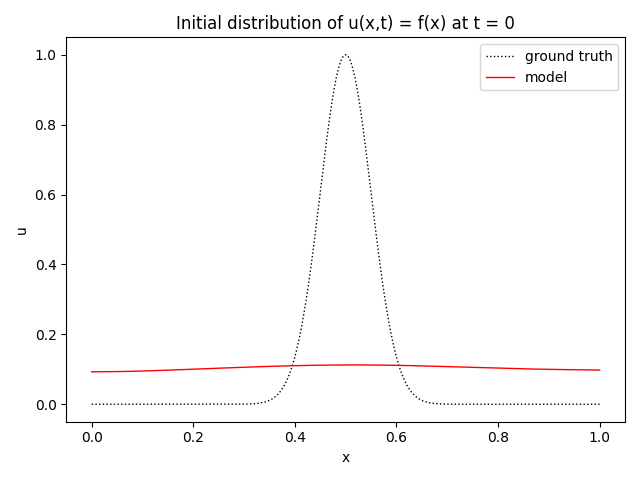
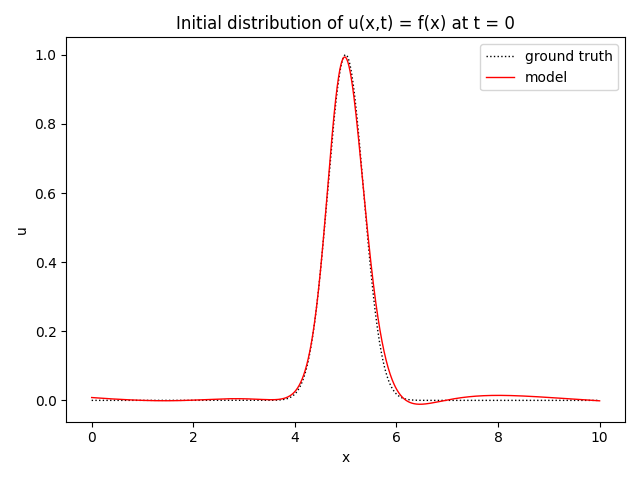
Created files

diff --git a/pinn/model.py b/pinn/model.py
@@ -26,12 +26,14 @@ class PINN:
             lr: float,
             batch_size: int,
             log_dir: str,
-            **kwargs
     ):
 
         self.c = c
         self.units = units
         self.batch_size = batch_size
+
+        self.max_x = 10.
+        self.max_t = 4.
 
         # create neural network to approximate u(x,t)
 
@@ -84,10 +86,10 @@ class PINN:
 
     @tf.function
     def pde(self):
-        """ u_tt(x,t) - c^2 * u_xx(x,t) = 0,    0 < x < 1,     0 < t < 1 """
+        """ u_tt(x,t) - c^2 * u_xx(x,t) = 0,    0 < x < X,     0 < t < T """
 
-        x = tf.random.uniform((self.batch_size,), 0., 1.)
-        t = tf.random.uniform((self.batch_size,), 0., 1.)
+        x = tf.random.uniform((self.batch_size,), 0., self.max_x)
+        t = tf.random.uniform((self.batch_size,), 0., self.max_t)
         with tf.GradientTape(persistent=True) as g:
             g.watch(x)
             g.watch(t)
@@ -100,20 +102,20 @@ class PINN:
         u_xx = g.gradient(u_x, x)
         u_tt = g.gradient(u_t, t)
         del g, gg
-        return tf.reduce_mean(tf.square(u_tt - self.c ** 2 * u_xx))
+        return tf.reduce_mean(tf.square(u_tt - self.c * self.c * u_xx))
 
     @tf.function
     def f(self, x):
         """ initial distribution of u(x,t) at t = 0 """
 
-        return tf.exp(- tf.square(x - 0.5) / 0.005)
+        return tf.exp(- tf.square(x - self.max_x / 2) / (self.max_x / 40))
 
     @tf.function
     def bc(self):
-        """ u(0,t) = u(1,t) = 0,   0 < t < 1 """
+        """ u(0,t) = u(X,t) = 0,   0 < t < T """
 
-        t = tf.random.uniform((self.batch_size,), 0., 1.)
-        x = tf.ones_like(t)
+        t = tf.random.uniform((self.batch_size,), 0., self.max_t)
+        x = tf.ones_like(t) * self.max_x
         u = self.u(tf.stack([x, t], axis=1))
         x = tf.zeros_like(t)
         u += self.u(tf.stack([x, t], axis=1))
@@ -123,7 +125,7 @@ class PINN:
     def ic(self):
         """ u(x,0) = f(x),     u_t(x,0) = 0 """
 
-        x = tf.random.uniform((self.batch_size,), 0., 1.)
+        x = tf.random.uniform((self.batch_size,), 0., self.max_x)
         t = tf.zeros_like(x)
         with tf.GradientTape(persistent=True) as g:
             g.watch(x)

diff --git a/pinn/utils.py b/pinn/utils.py
@@ -4,10 +4,10 @@ from matplotlib.animation import FuncAnimation, PillowWriter
 import numpy as np
 
 
-def plot_initial_distribution(model, save_dir=None):
+def plot_initial_distribution(model, save_dir=None, max_x=10.):
     """ Plot initial distribution """
 
-    x = np.linspace(0., 1., 1000)
+    x = np.linspace(0., max_x, 1000)
     t = np.zeros_like(x)
 
     plt.figure()
@@ -23,17 +23,17 @@ def plot_initial_distribution(model, save_dir=None):
     plt.show()
 
 
-def plot_wave_propagation(model, save_dir=None):
+def plot_wave_propagation(model, save_dir=None, max_x=10., max_t=4.):
     """ Plot wave propagation. """
 
-    x = np.linspace(0., 1., 1000)
-    t = np.linspace(0., 1., 100)
+    x = np.linspace(0., max_x, 1000)
+    t = np.linspace(0., max_t, 100)
 
     fig, ax = plt.subplots(figsize=(6, 4))
     ln, = plt.plot([], [], '-', c='k', lw=1)
 
     def init():
-        ax.set_xlim(-0.1, 1.1)
+        ax.set_xlim(-0.1, 0.1 + max_x)
         ax.set_ylim(-0.1, 1.1)
         ax.set_xlabel('x')
         ax.set_ylabel('u')

diff --git a/main.py b/main.py
@@ -15,11 +15,11 @@ def main():
 
     # define models parameters
 
-    units = [256] * 5
+    units = [100] * 5
     activation = 'sigmoid'
     c = 1
     lr = 0.001
-    batch_size = 256
+    batch_size = 64
     log_dir = './logs/' + datetime.datetime.now().strftime("%Y%m%d-%H%M%S")
 
     # create model
@@ -28,7 +28,7 @@ def main():
 
     # train model
 
-    model.fit(steps=10000)
+    model.fit(steps=20000)
 
     # plot initial distribution
 

diff --git a/README.md b/README.md
@@ -2,3 +2,34 @@
 
 This is a TensorFlow implementation of physics informed neural 
 network for one-dimensional wave equation.
+
+## A brief introduction to physics informed neural networks
+
+
+
+Consider a one-dimensional wave equation 
+
+![equation](equations/light_mode/1.svg)
+
+with two initial conditions
+
+![equation](equations/light_mode/2.svg)
+
+and two boundary conditions
+
+![equation](equations/light_mode/3.svg)
+
+The idea of physics informed neural networks (PINN) is to approximate u(x,t)
+neural network (universal functions approximation) 
+
+# Results
+
+![results](results/initial_distribution.png)
+
+![results](results/wave_propagation.gif)
+
+# References
+
+
+
+
